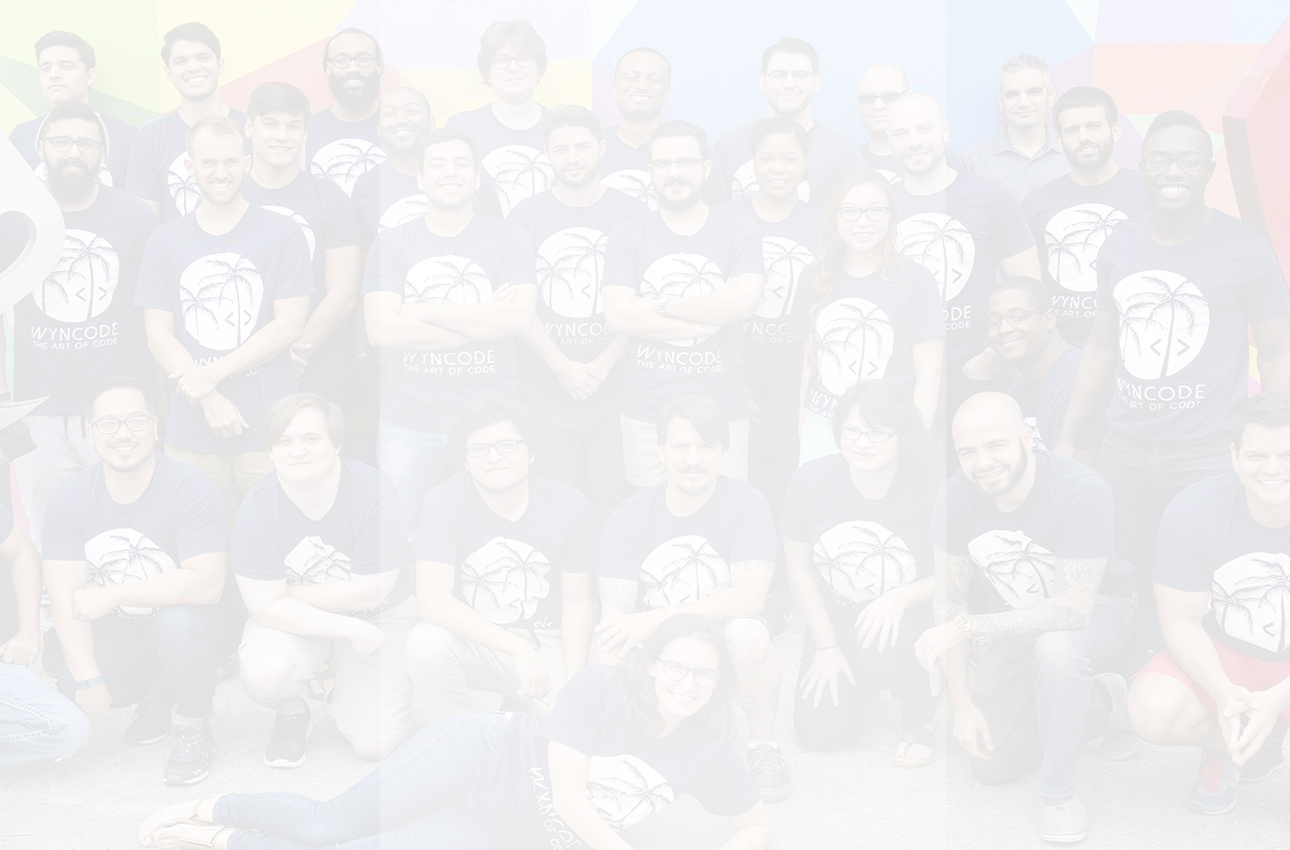
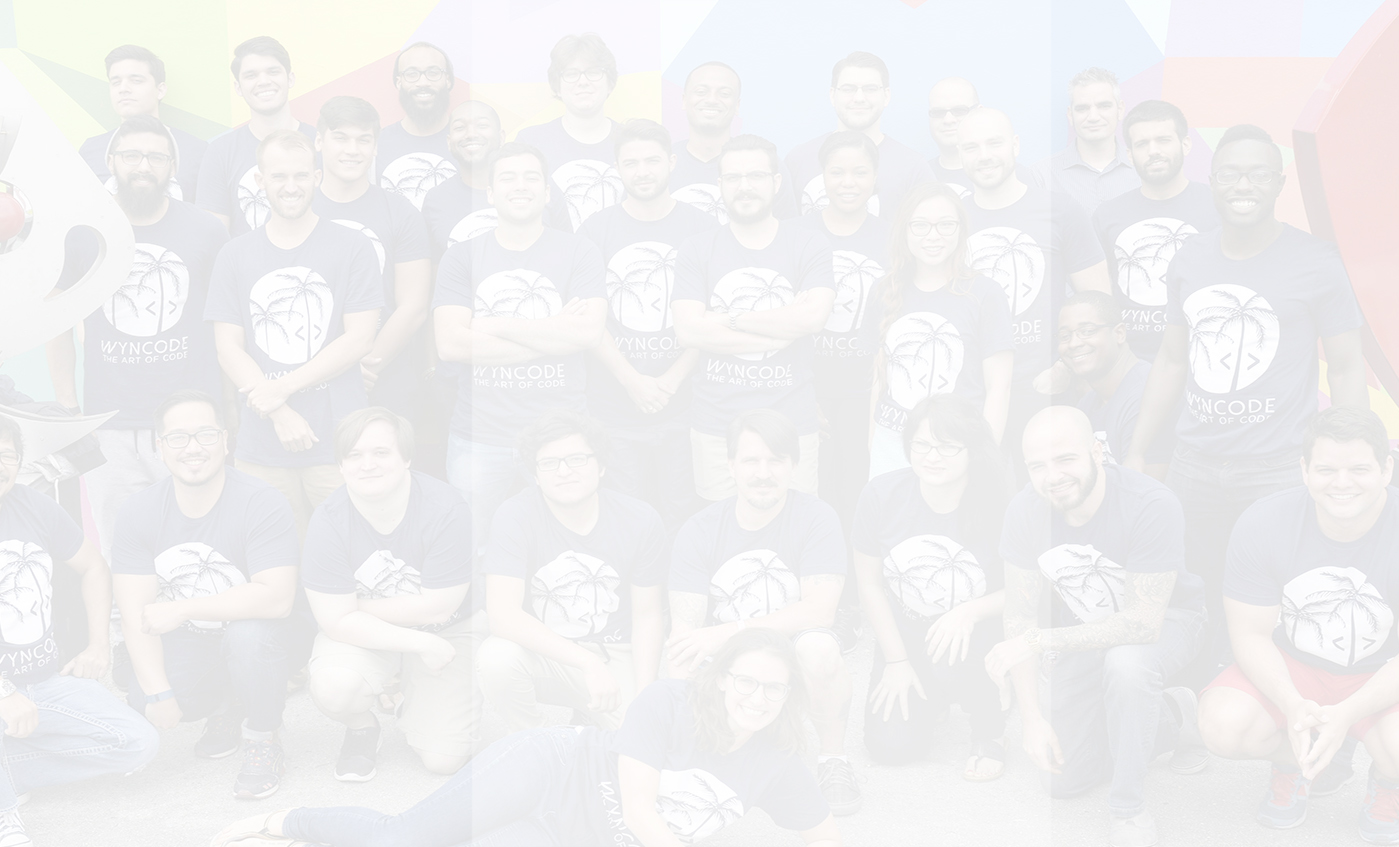
removed vh and made background images responsive

diff --git a/css/main.scss b/css/main.scss
@@ -1696,8 +1696,10 @@ span {
 
 		.row > section, .row > article {
 			margin-bottom: 0;
-      margin-left: 15vh;
-      background-image:url(../img/contactpagebackground.jpg)
+      width: 100%;
+    height: auto;
+      background-image:url(../img/contactpagebackground.jpg);
+
 		}
 
 /* Image */
